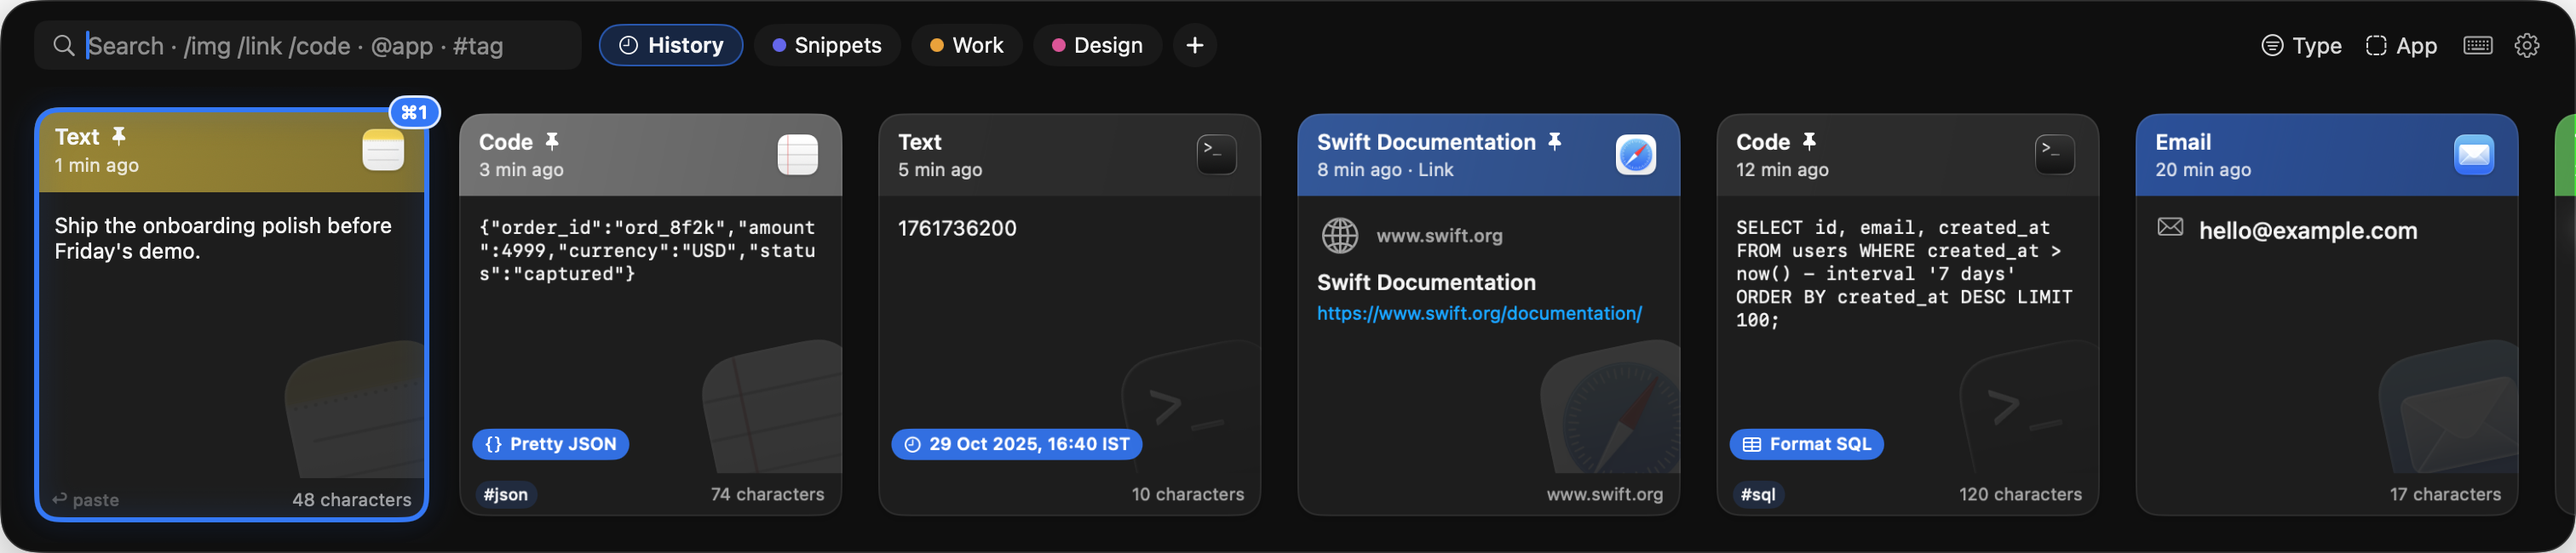
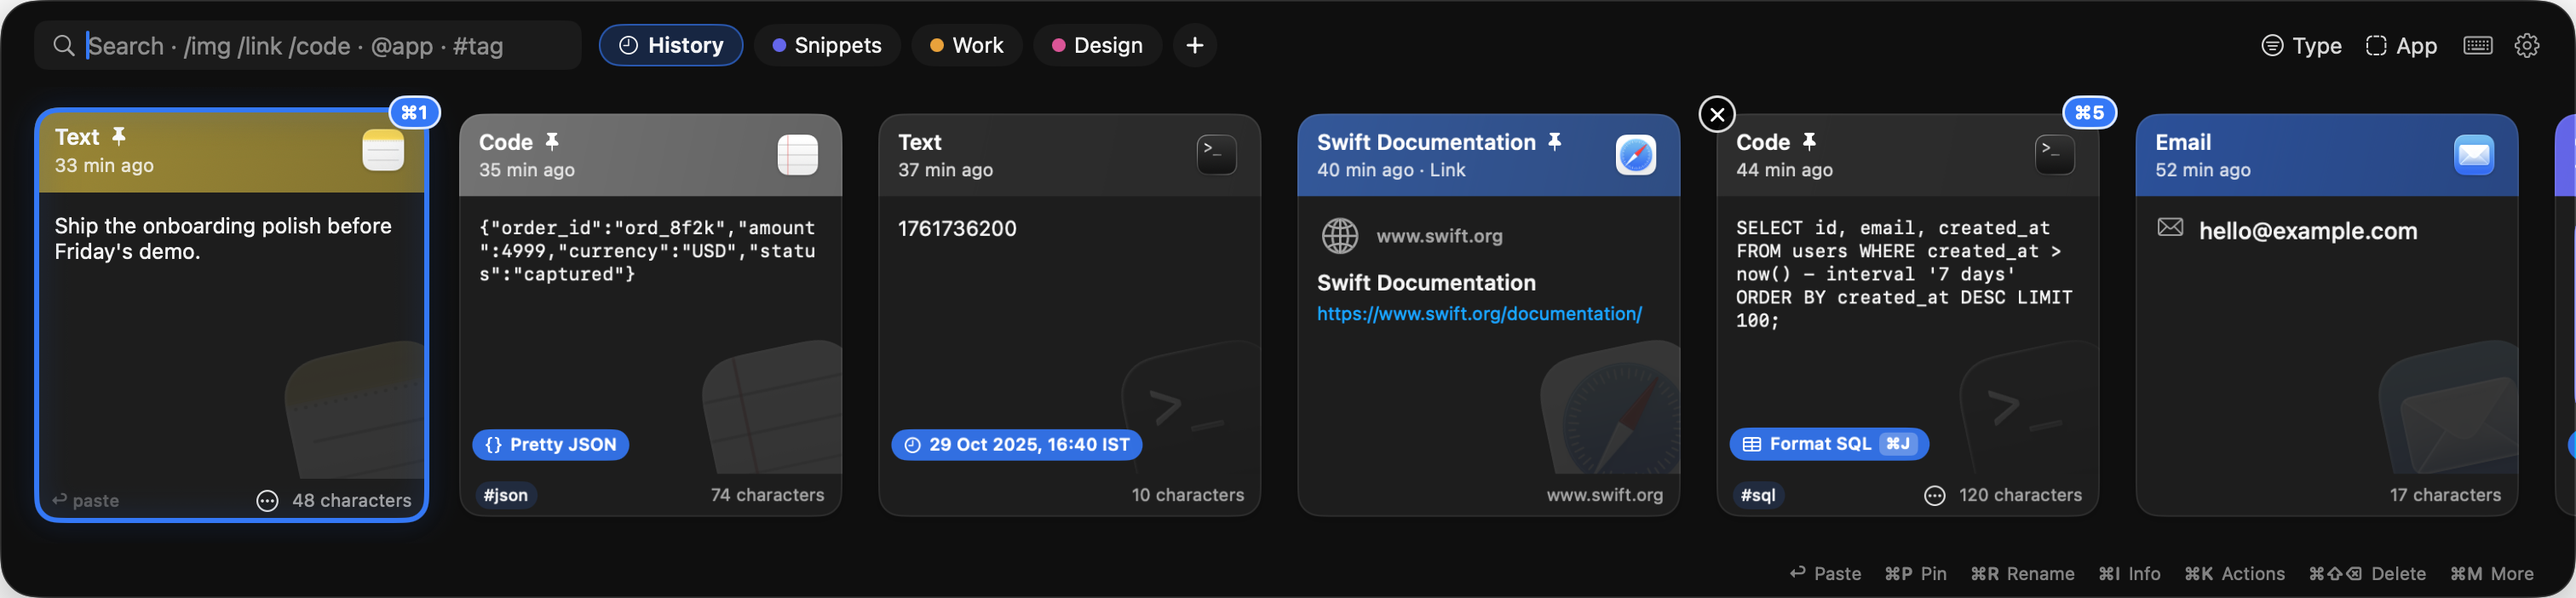
Release 1.7.2: always-on hint line under the cards

diff --git a/Sources/App/StripView.swift b/Sources/App/StripView.swift
@@ -11,6 +11,7 @@ struct StripView: View {
             VStack(spacing: 10) {
                 topBar
                 cards
+                if model.prefs.showHintLine { HintLine() }
             }
             // On an inner view: an identifier on the root propagates to every unlabelled descendant,
             // which hid the shortcut bar's and toast's own identifiers from UI tests.
@@ -436,6 +437,44 @@ struct QuickLookView: View {
             }
             }
         }
+    }
+}
+
+// MARK: Hint line
+
+/// The usual keys for the selected card, small and quiet at the bottom right; ⌘M has the rest.
+/// Hidden while the full shortcut bar or the plain-text banner is up, since they sit in the same place.
+private struct HintLine: View {
+    @EnvironmentObject var model: AppModel
+
+    private var hints: [(key: String, label: String)] {
+        guard let item = model.selectedItem else { return [] }
+        var h: [(String, String)] = [("↩", "Paste")]
+        if item.hasFormatting { h.append(("⇧↩", "Plain")) }
+        h += [("⌘P", "Pin"), ("⌘R", "Rename"), ("⌘I", "Info")]
+        if item.text != nil, item.kind != .image, item.kind != .file { h.append(("⌘K", "Actions")) }
+        h += [("⌘⇧⌫", "Delete"), ("⌘M", "More")]
+        return h
+    }
+
+    var body: some View {
+        HStack(spacing: 13) {
+            Spacer(minLength: 0)
+            ForEach(hints, id: \.key) { hint in
+                HStack(spacing: 4) {
+                    Text(hint.key).font(.system(size: 10.5, weight: .semibold, design: .rounded))
+                    Text(hint.label).font(.system(size: 10.5))
+                }
+            }
+        }
+        .foregroundStyle(.secondary)
+        .opacity(model.showKeys || model.plainMode || model.editor != nil ? 0 : 0.8)
+        .animation(.easeOut(duration: 0.15), value: model.showKeys)
+        .padding(.horizontal, 24)
+        .frame(height: 16)
+        .accessibilityElement(children: .ignore)
+        .accessibilityLabel(hints.map { "\($0.key) \($0.label)" }.joined(separator: ", "))
+        .accessibilityIdentifier("hint.line")
     }
 }
 

diff --git a/Sources/App/Preferences.swift b/Sources/App/Preferences.swift
@@ -33,6 +33,8 @@ final class Preferences: ObservableObject {
     // Appearance & motion
     @Published var glideSelection: Bool { didSet { d.set(glideSelection, forKey: "glideSelection") } }
     @Published var haptics: Bool { didSet { d.set(haptics, forKey: "haptics") } }
+    /// A quiet line of the usual shortcuts along the bottom of the strip.
+    @Published var showHintLine: Bool { didSet { d.set(showHintLine, forKey: "showHintLine") } }
     /// Off by default: opening is instant. On: the first cards spring in one after another (~0.5 s).
     @Published var entranceAnimation: Bool { didSet { d.set(entranceAnimation, forKey: "entranceAnimation") } }
     @Published var doubleCtrlInPanel: Bool { didSet { d.set(doubleCtrlInPanel, forKey: "doubleCtrlInPanel") } }
@@ -58,7 +60,7 @@ final class Preferences: ObservableObject {
             "excludedBundleIDs": Self.defaultExcluded,
             "linkPreviews": true, "ocr": true, "directPaste": true, "capturePaused": false,
             "smartActions": true,
-            "glideSelection": true, "haptics": true, "entranceAnimation": false,
+            "glideSelection": true, "haptics": true, "showHintLine": true, "entranceAnimation": false,
             "doubleCtrlInPanel": true, "doubleCtrlGlobal": true, "hotkeyCyclesTabs": true, "searchEverywhere": true,
             // UI test runs stay silent; everyone else gets sounds at 40%.
             "soundsEnabled": !UITest.enabled, "soundVolume": 0.4, "soundCopy": true, "soundPaste": true, "soundDelete": true,
@@ -75,6 +77,7 @@ final class Preferences: ObservableObject {
         smartActions = d.bool(forKey: "smartActions")
         glideSelection = d.bool(forKey: "glideSelection")
         haptics = d.bool(forKey: "haptics")
+        showHintLine = d.bool(forKey: "showHintLine")
         entranceAnimation = d.bool(forKey: "entranceAnimation")
         doubleCtrlInPanel = d.bool(forKey: "doubleCtrlInPanel")
         doubleCtrlGlobal = d.bool(forKey: "doubleCtrlGlobal")

diff --git a/Tests/UITests/main.swift b/Tests/UITests/main.swift
@@ -288,6 +288,17 @@ func runAll() async {
         check(await waitFor { openedURLs.contains("https://example.com/pricing") }, "link opened (got \(openedURLs))")
     }
 
+    await test("hint line: usual shortcuts sit at the bottom, adapted to the selected card") {
+        await copy("[uitest] hint line")
+        check(await openPanel(), "strip is visible")
+        guard let line = await element("hint.line", timeout: 3) else { check(false, "hint line found"); return }
+        let t = text(of: line)
+        check(["Paste", "Pin", "Rename", "Info", "Actions", "Delete", "More"].allSatisfy { t.contains($0) }, "usual hints present (got \"\(t)\")")
+        check(t.contains("⌘M") && t.contains("⌘⇧⌫"), "keys shown (got \"\(t)\")")
+        check(!t.contains("Plain"), "no Plain hint for unformatted text")
+        await closePanel()
+    }
+
     await test("shortcut hint: the keyboard button and ⌘/ toggle the shortcut bar; Esc hides it first") {
         check(await openPanel(), "strip is visible")
         check(elements("shortcut.bar").isEmpty, "bar hidden by default")

diff --git a/Sources/App/SettingsView.swift b/Sources/App/SettingsView.swift
@@ -311,6 +311,9 @@ private struct AppearancePane: View {
 
             toggle("Trackpad haptics", "A light tap on each selection change (Force Touch trackpads)", $prefs.haptics, "appearance.haptics")
         }
+        Card(title: "Hints") {
+            toggle("Key hints along the bottom", "A quiet line of the usual shortcuts (paste, pin, rename, info, actions, delete) under the cards. ⌘M shows the rest", $prefs.showHintLine, "appearance.hints")
+        }
         Card(title: "Opening the strip") {
             toggle("Staggered card entrance", "Cards spring in one after another when the strip opens. Off: they're simply there, which is faster", $prefs.entranceAnimation, "appearance.entrance")
         }

diff --git a/Sources/App/PanelController.swift b/Sources/App/PanelController.swift
@@ -11,7 +11,7 @@ final class StripPanel: NSPanel {
 }
 
 final class PanelController: NSObject, NSWindowDelegate {
-    static let height: CGFloat = 340
+    static let height: CGFloat = 358 // 18 of it is the hint line under the cards
 
     private let model: AppModel
     private let panel: StripPanel

diff --git a/CHANGELOG.md b/CHANGELOG.md
@@ -2,6 +2,11 @@
 
 Versions follow semver. The build number (CFBundleVersion) is the git commit count, stamped by `make app`.
 
+## 1.7.2 (2026-11-06)
+
+- A quiet hint line under the cards, bottom right: ↩ Paste, ⇧↩ Plain (only for formatted items), ⌘P Pin, ⌘R Rename, ⌘I Info, ⌘K Actions (only where they apply), ⌘⇧⌫ Delete, ⌘M More. It fades out while the shortcut bar, plain-text banner or an editor is up. Switch it off in Settings → Appearance → Hints.
+- The strip is 18 pt taller to make room for it.
+
 ## 1.7.1 (2026-11-06)
 
 - Card menu without a right-click: a ⋯ button appears on the selected or hovered card, and ⌘M opens the same menu for the selected card. Right-click still works.

diff --git a/docs/SHORTCUTS.md b/docs/SHORTCUTS.md
@@ -29,6 +29,7 @@
 
 Hold ⇧ in the strip for plain-text mode: ↩, ⌘1–9 and double-click all paste without formatting.
 Hover a card to get its ✕ delete button and ⌘1–9 badge; the smart-action chip shows its ⌘J key.
+The hint line at the bottom right always lists the usual keys for the selected card; ⌘M opens its menu with the rest.
 Drag a card onto a pinboard tab to pin it. Right-click a card for everything else.
 
 ## Search
